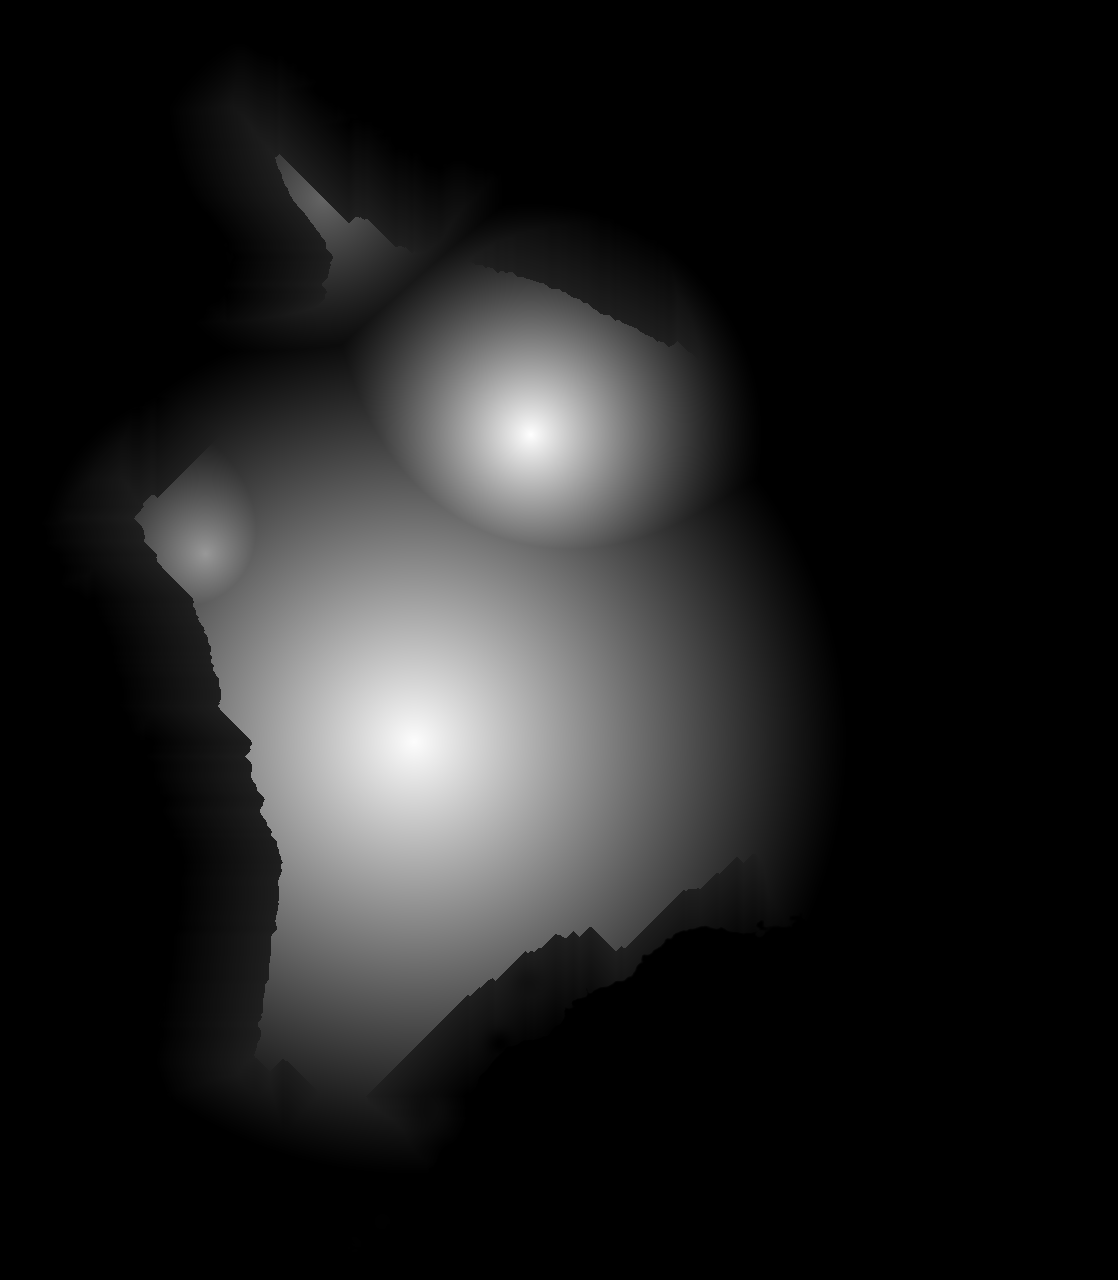
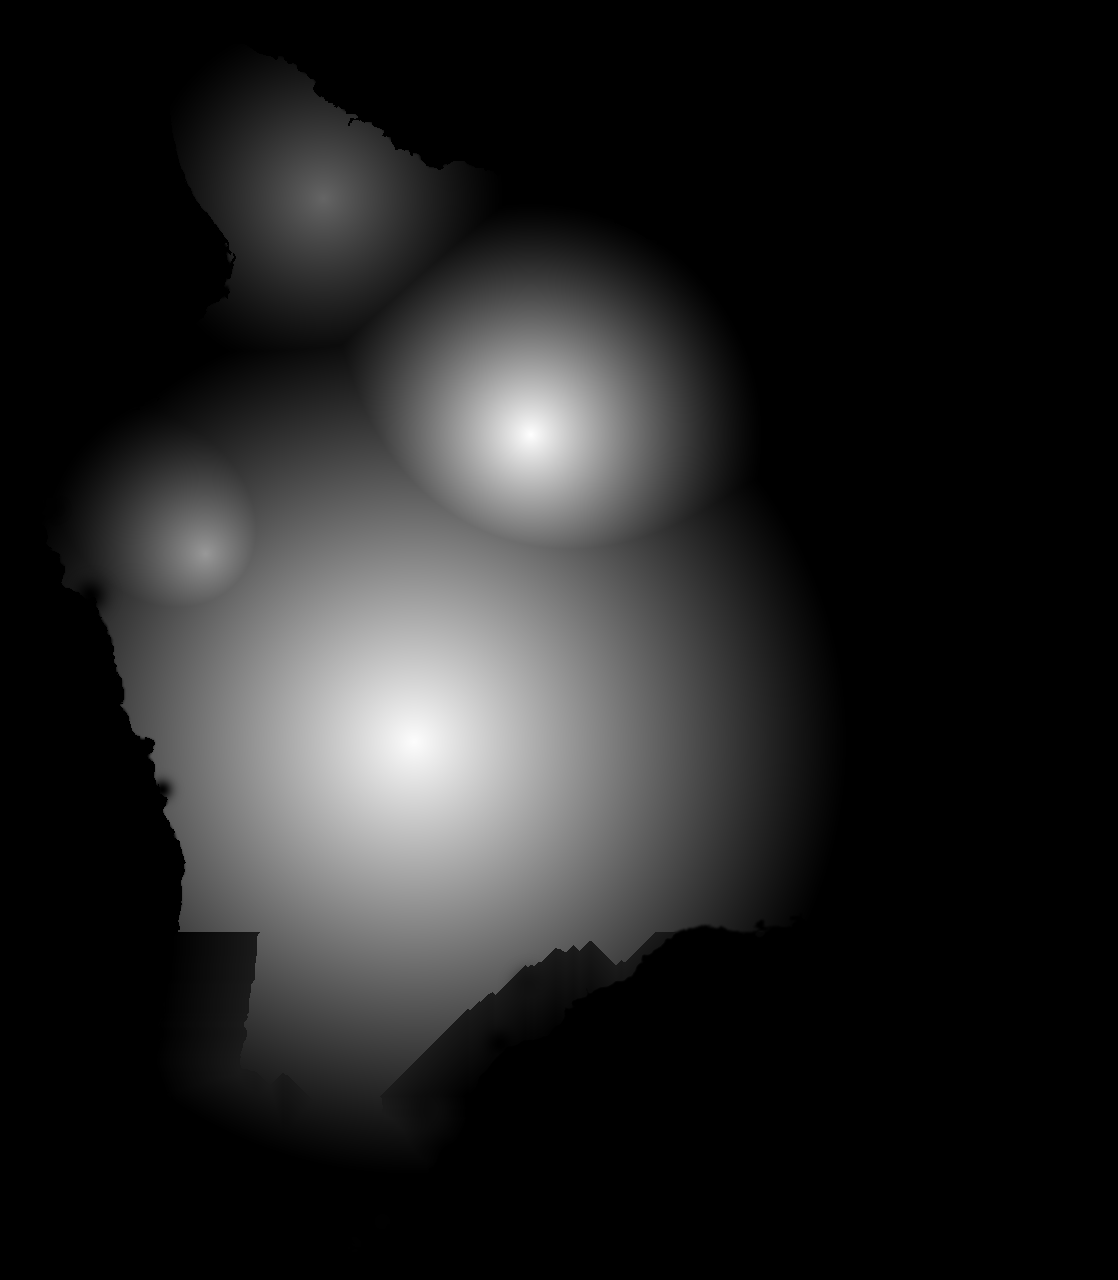
Build real South Point cliffs; remove the fake Kona palis
Ka Lae is a jump-and-fish drop into deep water, not a gold disc.
Island-wide height clamp is gone so Hualālai is a shield again.

diff --git a/src/components/flight/KauCoast.tsx b/src/components/flight/KauCoast.tsx
@@ -54,23 +54,75 @@ function Punaluu() {
 function KaLae() {
   const { x, z } = latLonToWorld(18.9108, -155.6813);
   const y = terrainY(x, z);
+  const H = 2.85;
   return (
     <group position={[x, y, z]}>
-      <mesh rotation={[-Math.PI / 2, 0, 0]} position={[0, 0.03, -0.15]}>
-        <circleGeometry args={[2.4, 24]} />
-        <meshStandardMaterial color="#c4a45a" roughness={0.95} />
+      {/* Grass peninsula — not a pancake. Tip points south into the drop. */}
+      <mesh rotation={[-Math.PI / 2, 0, 0]} position={[0, 0.04, -0.35]} scale={[1.15, 1.7, 1]}>
+        <circleGeometry args={[1.55, 20]} />
+        <meshStandardMaterial color="#b8954a" roughness={0.96} />
       </mesh>
-      <mesh position={[0, -0.7, 1.05]}>
-        <boxGeometry args={[3.4, 1.55, 0.22]} />
-        <meshStandardMaterial color="#6a5340" roughness={0.92} />
+      <mesh rotation={[-Math.PI / 2, 0, 0]} position={[0, 0.05, 0.55]} scale={[0.95, 1.05, 1]}>
+        <circleGeometry args={[1.15, 16]} />
+        <meshStandardMaterial color="#c4a45a" roughness={0.96} />
       </mesh>
-      <mesh position={[0, -1.45, 1.35]} rotation={[0.35, 0, 0]}>
-        <boxGeometry args={[3.2, 0.9, 0.18]} />
-        <meshStandardMaterial color="#4a3a30" roughness={0.94} />
+
+      {/* South face — the famous drop into the current */}
+      <mesh position={[0.05, -H / 2, 1.55]}>
+        <boxGeometry args={[2.6, H, 0.22]} />
+        <meshStandardMaterial color="#6b5340" roughness={0.92} />
       </mesh>
-      <mesh position={[0.15, 0.22, 0.55]}>
-        <boxGeometry args={[0.35, 0.08, 0.55]} />
-        <meshStandardMaterial color="#9aa0a6" roughness={0.6} />
+      <mesh position={[0.05, -H * 0.72, 1.78]} rotation={[0.42, 0, 0]}>
+        <boxGeometry args={[2.5, H * 0.55, 0.18]} />
+        <meshStandardMaterial color="#4a382c" roughness={0.94} />
+      </mesh>
+
+      {/* West face — jump and fish side */}
+      <mesh position={[-1.22, -H / 2, 0.35]} rotation={[0, 0.18, 0]}>
+        <boxGeometry args={[0.22, H, 2.9]} />
+        <meshStandardMaterial color="#5c4838" roughness={0.92} />
+      </mesh>
+      <mesh position={[-1.42, -H * 0.7, 0.45]} rotation={[0, 0.18, 0.12]}>
+        <boxGeometry args={[0.18, H * 0.6, 2.7]} />
+        <meshStandardMaterial color="#3f3028" roughness={0.94} />
+      </mesh>
+
+      {/* East face, lower */}
+      <mesh position={[1.18, -H / 2.3, 0.5]} rotation={[0, -0.12, 0]}>
+        <boxGeometry args={[0.18, H * 0.85, 2.4]} />
+        <meshStandardMaterial color="#6a5340" roughness={0.93} />
+      </mesh>
+
+      {/* Concrete jump pad on the SW lip */}
+      <mesh position={[-0.72, 0.08, 1.05]}>
+        <boxGeometry args={[0.55, 0.07, 0.7]} />
+        <meshStandardMaterial color="#9aa0a6" roughness={0.62} />
+      </mesh>
+      <mesh position={[-0.72, 0.13, 1.28]}>
+        <boxGeometry args={[0.5, 0.04, 0.12]} />
+        <meshStandardMaterial color="#7a8086" roughness={0.55} />
+      </mesh>
+
+      {/* Rusted ladder down the west face */}
+      {[-0.2, -0.7, -1.2, -1.7].map((ly) => (
+        <mesh key={ly} position={[-1.28, ly, 1.0]}>
+          <boxGeometry args={[0.04, 0.08, 0.28]} />
+          <meshStandardMaterial color="#8a5a38" metalness={0.4} roughness={0.5} />
+        </mesh>
+      ))}
+      <mesh position={[-1.28, -0.95, 0.88]}>
+        <boxGeometry args={[0.03, 1.9, 0.03]} />
+        <meshStandardMaterial color="#6a4030" metalness={0.45} roughness={0.48} />
+      </mesh>
+      <mesh position={[-1.28, -0.95, 1.12]}>
+        <boxGeometry args={[0.03, 1.9, 0.03]} />
+        <meshStandardMaterial color="#6a4030" metalness={0.45} roughness={0.48} />
+      </mesh>
+
+      {/* Deep water under the jump — the current that pulls */}
+      <mesh rotation={[-Math.PI / 2, 0, 0]} position={[-0.4, -H - 0.05, 2.4]}>
+        <circleGeometry args={[2.2, 16]} />
+        <meshStandardMaterial color="#062038" roughness={0.22} metalness={0.12} />
       </mesh>
     </group>
   );

diff --git a/src/lib/hawaii/places.ts b/src/lib/hawaii/places.ts
@@ -269,9 +269,9 @@ export const PLACES: Place[] = [
     kind: "place",
     region: "Kaʻū",
     image: "/scenes/south-point.jpg",
-    kicker: "The southernmost place",
+    kicker: "The southernmost cliffs",
     story:
-      "Wind, grass, and a cliff into deep water — the southernmost point in the United States. Canoe mooring holes in the rock are older than the flag.",
+      "Wind, grass, and a sheer drop into deep water — the southernmost point in the United States. People fish and jump from the west lip. The current below is no joke. Canoe mooring holes in the rock are older than the flag.",
   },
   {
     id: "puuhonua",

diff --git a/src/lib/hawaii/coast.ts b/src/lib/hawaii/coast.ts
@@ -3,7 +3,7 @@ import { latLonToWorld } from "./world";
 /** Open coast — no rainforest canopy. Pins stay on the real shoreline. */
 const ZONES: { lat: number; lon: number; r: number }[] = [
   { lat: 19.1358, lon: -155.5044, r: 2.4 }, // Punaluʻu black sand
-  { lat: 18.9108, lon: -155.6813, r: 3.0 }, // Ka Lae cliffs
+  { lat: 18.9108, lon: -155.6813, r: 4.2 }, // Ka Lae cliffs
   { lat: 18.9364, lon: -155.6464, r: 1.8 }, // Papakōlea
   { lat: 19.9919, lon: -155.8244, r: 1.6 }, // Hāpuna
 ];

diff --git a/src/lib/hawaii/world.ts b/src/lib/hawaii/world.ts
@@ -54,7 +54,7 @@ async function decodePixels(src: string) {
 
 export async function loadHeightmap() {
   if (!heightPx) {
-    const h = await decodePixels("/maps/hawaii-height.png?v=kau2");
+    const h = await decodePixels("/maps/hawaii-height.png?v=kau3");
     heightPx = h.data;
     hw = h.w;
     hh = h.h;

diff --git a/scripts/fix-kau-height.py b/scripts/fix-kau-height.py
@@ -1,8 +1,8 @@
 #!/usr/bin/env python3
-"""Lock Kaʻū heights to the real coast: Punaluʻu at the beach, Nāʻālehu upslope.
+"""Kaʻū-only height lock. Do not terrace the Kona / Hualālai shield.
 
-The Gaussian shields put Punaluʻu at ~940 m. It is a black-sand beach.
-Nāʻālehu is the town above it (~200 m), not at sea level.
+Punaluʻu = beach. Nāʻālehu = town upslope. West side stays a volcano slope,
+not a fake palis at the old 14 km clamp.
 """
 
 from __future__ import annotations
@@ -15,19 +15,23 @@ from PIL import Image
 
 ROOT = Path(__file__).resolve().parents[1]
 USGS = ROOT / "public/maps/hawaii-usgs.jpg"
+BASE = ROOT / "public/maps/hawaii-height-shields.png"
 HEIGHT = ROOT / "public/maps/hawaii-height.png"
 
 GEO = dict(latMin=18.9108, latMax=20.268, lonMin=-156.0614, lonMax=-154.806)
 ISLAND_PX = dict(x=36, y=36, w=1046, h=1208)
 M_PER_PX = 150_000 / 1046
+KAU_LAT = 19.28  # south of this: Kaʻū terrace only
 
-# Surveyed spots (m). Used to terrace the Kaʻū slope.
 CONTROLS = [
-    (19.1358, -155.5044, 8, 2.2),  # Punaluʻu beach
-    (19.062, -155.588, 200, 3.0),  # Nāʻālehu
-    (19.202, -155.47, 280, 2.6),  # Pāhala
-    (18.9108, -155.6813, 12, 2.4),  # Ka Lae
-    (18.9364, -155.6464, 18, 1.6),  # Papakōlea
+    (19.1358, -155.5044, 8, 2.2),
+    (19.062, -155.588, 200, 3.0),
+    (19.202, -155.47, 280, 2.6),
+    (18.9108, -155.6813, 12, 2.4),
+    (18.9364, -155.6464, 18, 1.6),
+    (19.6399, -155.9969, 8, 2.8),  # Kailua-Kona waterfront
+    (19.7388, -156.0456, 14, 2.4),  # KOA
+    (19.4217, -155.9106, 6, 1.8),  # Puʻuhonua shore
 ]
 
 
@@ -105,48 +109,40 @@ def main() -> None:
     dist = dist_px(ocean)
     dist_km = dist.astype(np.float32) * (M_PER_PX / 1000.0)
 
-    src = np.asarray(Image.open(HEIGHT).convert("L"), dtype=np.float32)
+    src = np.asarray(Image.open(BASE).convert("L"), dtype=np.float32)
     meters = src / 255.0 * 4205.0
 
-    # Near the water, height cannot exceed a real coastal slope.
-    # 14 km inland ≈ 500 m; volcano interiors (Mauna Kea) are untouched.
-    near = dist_km < 14.0
+    h, w = meters.shape
+    lat = np.linspace(GEO["latMax"], GEO["latMin"], h)[:, None]
+    kau = (lat < KAU_LAT) & ~ocean
     cap = 8.0 + dist_km * 36.0
-    meters = np.where(near, np.minimum(meters, cap), meters)
-    meters[ocean] = 0
+    meters = np.where(kau & (dist_km < 12.0), np.minimum(meters, cap), meters)
 
     yy, xx = np.indices(meters.shape)
-    for lat, lon, elev, radius_km in CONTROLS:
-        px, py = project(lat, lon)
+    for clat, clon, elev, radius_km in CONTROLS:
+        px, py = project(clat, clon)
         dkm = np.hypot(xx - px, yy - py) * (M_PER_PX / 1000.0)
-        w = np.exp(-0.5 * (dkm / (radius_km * 0.55)) ** 2)
-        w = np.where(dkm < radius_km * 2.2, w, 0)
-        meters = meters * (1 - w) + elev * w
+        wt = np.exp(-0.5 * (dkm / (radius_km * 0.55)) ** 2)
+        wt = np.where(dkm < radius_km * 2.2, wt, 0)
+        meters = meters * (1 - wt) + elev * wt
 
     meters[ocean] = 0
     meters = np.clip(meters, 0, 4205)
     out = np.round(meters / 4205.0 * 255.0).astype(np.uint8)
     Image.fromarray(out, mode="L").save(HEIGHT)
 
-    print(f"{'place':20} {'dist_km':>8} {'before':>8} {'after':>8} {'real':>8}")
-    samples = [
+    print(f"{'place':20} {'after':>8} {'real':>8}")
+    for name, clat, clon, real in [
         ("Punaluu", 19.1358, -155.5044, 8),
         ("Naalehu", 19.062, -155.588, 200),
-        ("Pahala", 19.202, -155.47, 280),
         ("Ka Lae", 18.9108, -155.6813, 12),
-        ("Papakolea", 18.9364, -155.6464, 18),
+        ("Kona", 19.6399, -155.9969, 5),
+        ("Hualalai", 19.6869, -155.8586, 2521),
         ("Ocean View", 19.102, -155.767, 640),
-        ("Hilo", 19.7074, -155.0817, 10),
         ("Mauna Kea", 19.8207, -155.4681, 4205),
-        ("FlashTown", 19.5397, -155.1417, 550),
-        ("Kilauea", 19.4069, -155.2834, 1247),
-    ]
-    for name, lat, lon, real in samples:
-        px, py = project(lat, lon)
-        xi, yi = int(round(px)), int(round(py))
-        before = src[yi, xi] / 255.0 * 4205
-        after = meters[yi, xi]
-        print(f"{name:20} {dist_km[yi, xi]:8.2f} {before:8.0f} {after:8.0f} {real:8.0f}")
+    ]:
+        px, py = project(clat, clon)
+        print(f"{name:20} {meters[int(round(py)), int(round(px))]:8.0f} {real:8.0f}")
 
 
 if __name__ == "__main__":
